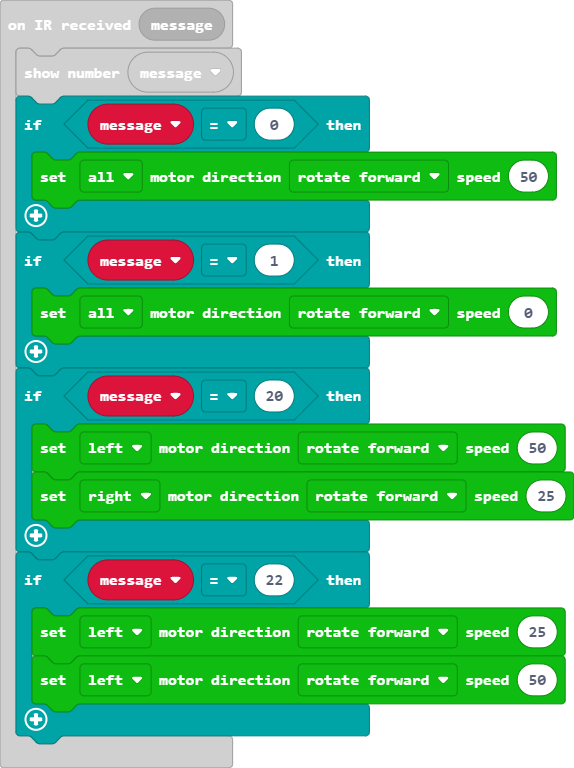
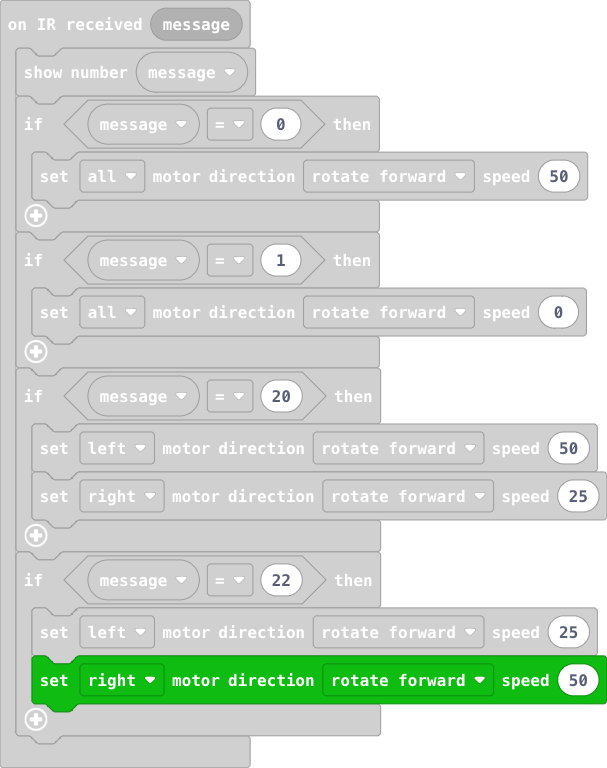
Update main.blocks, main.ts

diff --git a/main.ts b/main.ts
@@ -12,7 +12,7 @@ DFRobotMaqueenPlusV2.onIrDatagram(function (message) {
     }
     if (message == 22) {
         DFRobotMaqueenPlusV2.controlMotor(MyEnumMotor.eLeftMotor, MyEnumDir.eForward, 25)
-        DFRobotMaqueenPlusV2.controlMotor(MyEnumMotor.eLeftMotor, MyEnumDir.eForward, 50)
+        DFRobotMaqueenPlusV2.controlMotor(MyEnumMotor.eRightMotor, MyEnumDir.eForward, 50)
     }
 })
 DFRobotMaqueenPlusV2.init()
